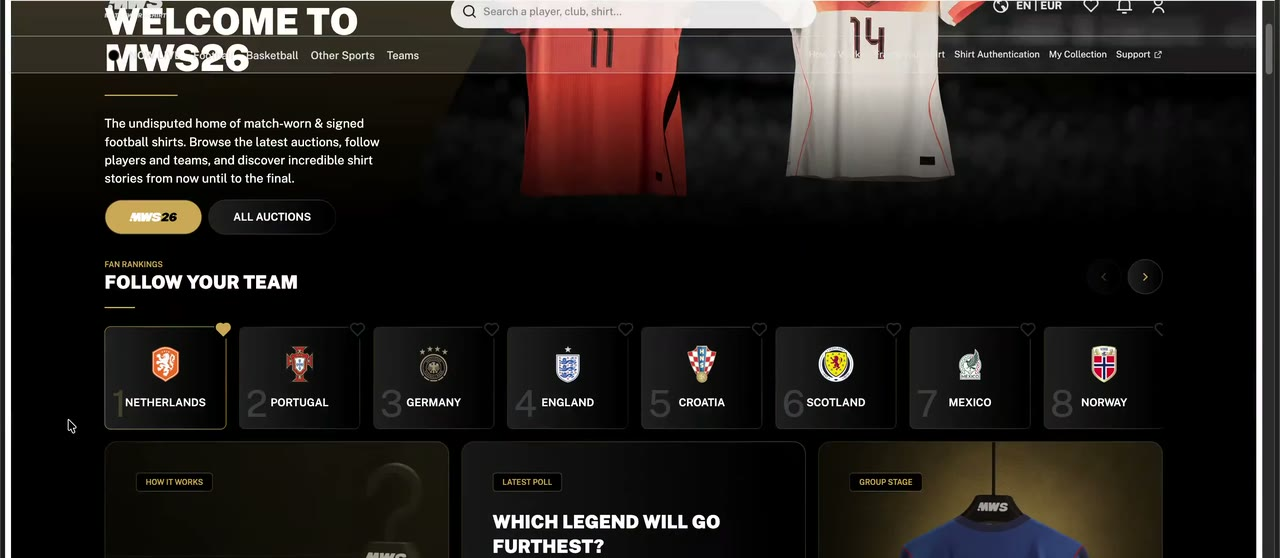
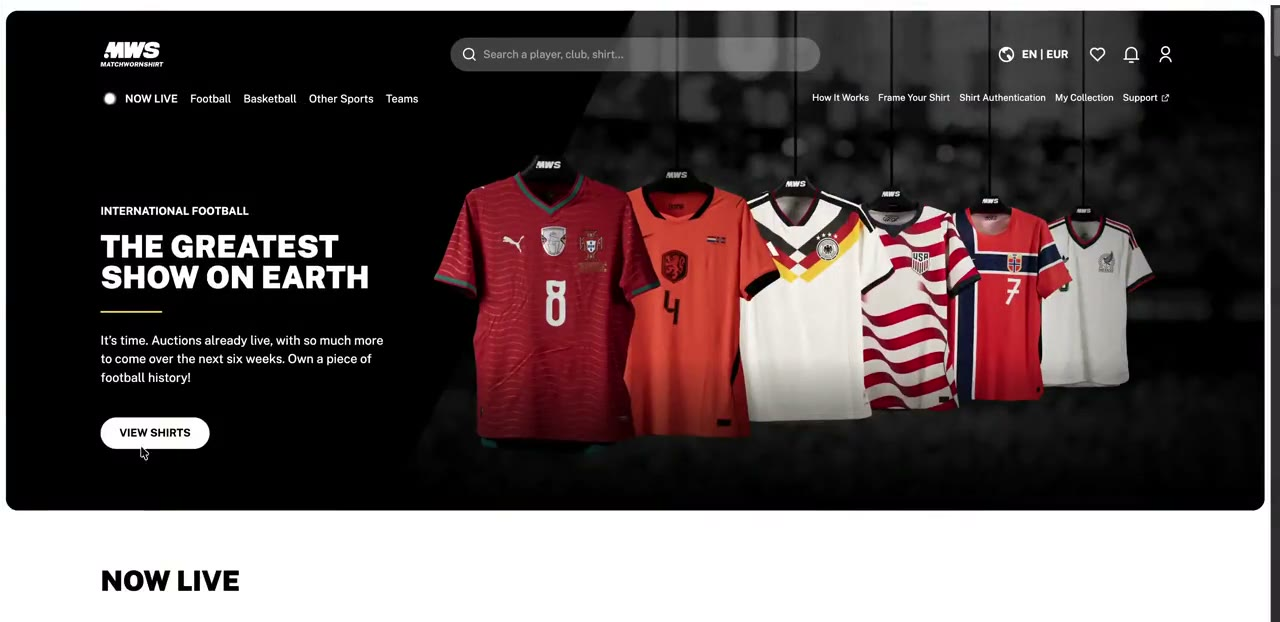
Marketplace clean-page reframe, CV photo, media cleanup
- Marketplace work video: re-cut from source to show only the rendered MWS
  page (no browser URL bar, no macOS/dock/screen-share chrome). Full tour
  kept (homepage -> live auction -> buy-now), 1280x622; refreshed poster +
  tile dimensions.
- CV: use the new me.jpg headshot (optimized 640x853, 58KB), framed to the face.
- Cleanup: drop unused committed assets portrait/photo.jpg (old CV photo) and
  swirl-frames.png (orphaned from a removed explore page).

diff --git a/app/cv/page.tsx b/app/cv/page.tsx
@@ -132,11 +132,12 @@ export default function CvPage() {
           </div>
           <div
             aria-label={`Portrait of ${site.name}`}
-            className="w-28 shrink-0 border border-border bg-bg bg-center bg-cover sm:w-32"
+            className="w-28 shrink-0 border border-border bg-bg bg-cover sm:w-32"
             role="img"
             style={{
               aspectRatio: "1",
-              backgroundImage: "url(/portrait/photo.jpg)",
+              backgroundImage: "url(/me.jpg)",
+              backgroundPosition: "center 22%",
             }}
           />
         </header>

diff --git a/content/experience.ts b/content/experience.ts
@@ -29,9 +29,9 @@ export const experience: WorkItem[] = [
       kind: "video",
       src: "/work/marketplace.mp4",
       poster: "/work/marketplace-poster.jpg",
-      alt: "The MWS marketplace on mws.com: the live homepage and an auction event page.",
+      alt: "The MWS marketplace on mws.com: the live homepage, an auction event page, and instant-buy.",
       width: 1280,
-      height: 558,
+      height: 622,
     },
   },
   {